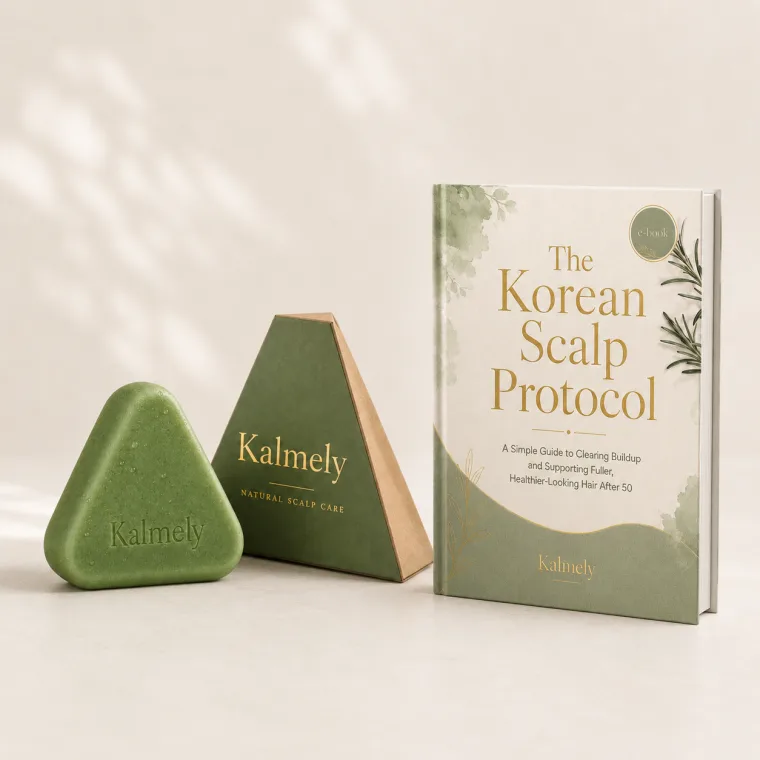
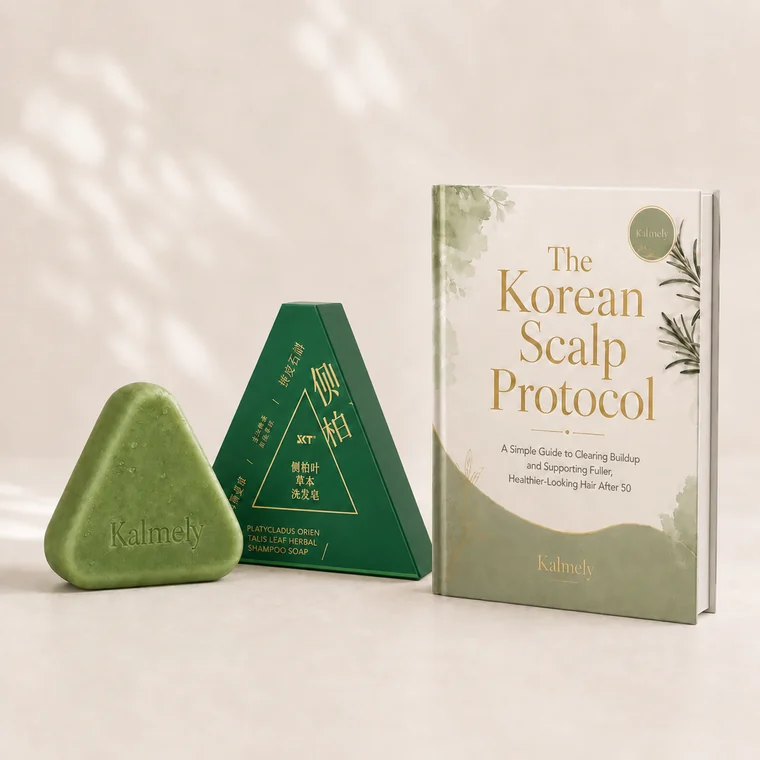
Las tres fotos finales de pack, y Stripe deja de ir sin foto
Fotos nuevas de Julio para los tres packs (1, 2 y 3 kostki, cada una con
lo que de verdad incluye). Reemplazan a las anteriores en scalp/assets/.

Con el ?v= subido a pl2: los assets van con cache-control immutable de un
año, así que sin cambiar la URL quien ya tuviera la foto vieja cacheada
no vería nunca la nueva. Ya pasó con hero-02.

Y algo que estaba mal desde el principio: el checkout de Stripe del scalp
NO enseñaba ninguna foto. Los tres SKU polacos no tenían campo img,
mientras que el té y el bálsamo sí lo llevaban. Ahora cada SKU apunta a
su bundle con la URL completa, porque el worker prefija /assets/ y estas
viven en /scalp/assets/.

Cuidado con este fichero: los SKU SCALP-1/2/3 existen DOS veces, en
SKU_MAP (USD, legacy) y en SCALP_PL (PLN, el vivo). Buscar por nombre de
SKU sin acotar el bloque mete el cambio en el sitio equivocado. El
SKU_MAP en USD queda intacto.

diff --git a/scalp/index.html b/scalp/index.html
@@ -1963,7 +1963,7 @@ body:has(.sticky-cta.show) .chat-nudge{bottom:114px}
     document.getElementById('cartQty').textContent='×1';
     // la foto del pack que se está comprando (bundle-1/2/3), no el bodegón genérico:
     // estaba escrita a fuego a hero-01, así que los tres packs mostraban la misma imagen
-    document.getElementById('cartImg').src='assets/'+(t.img||'hero-01')+'.webp';
+    document.getElementById('cartImg').src='assets/'+(t.img||'hero-01')+'.webp?v=pl2';
     document.getElementById('cartPrice').textContent=money(price);
     var wasEl=document.getElementById('cartWas');if(was&&was>price){wasEl.textContent=money(was);wasEl.style.display='';}else{wasEl.style.display='none';}
     document.getElementById('cartSubtotal').textContent=money((was&&was>price)?was:price);
